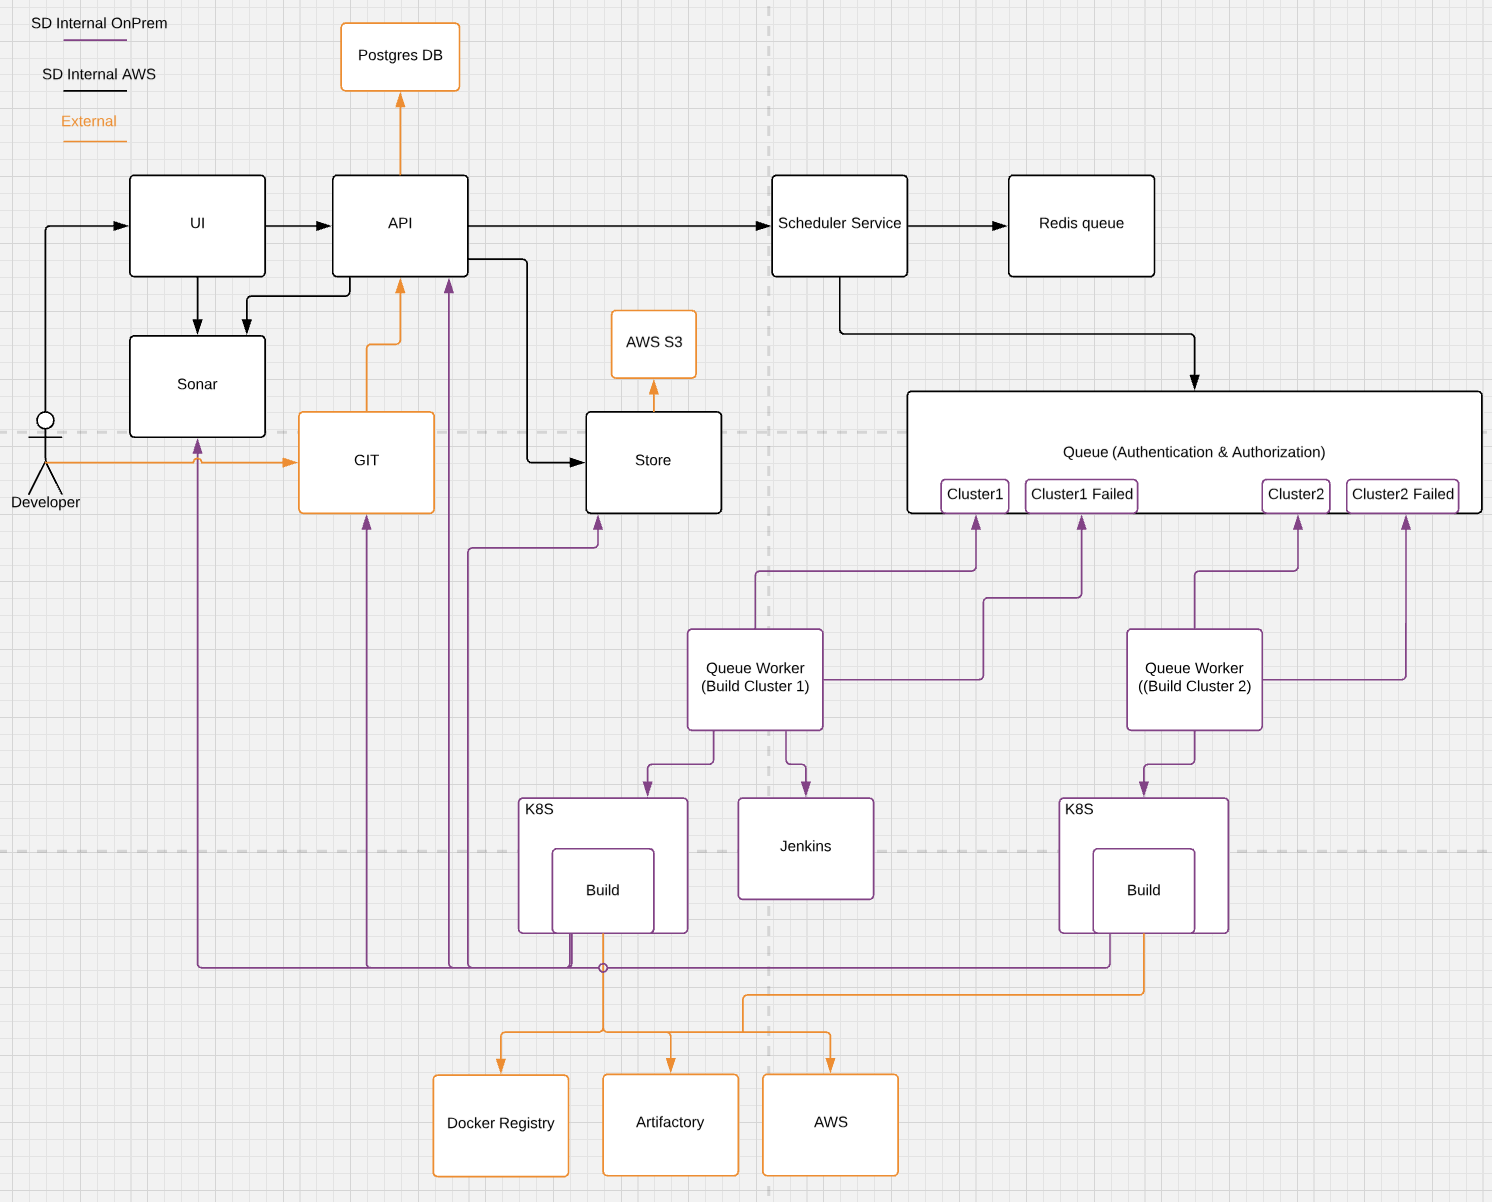
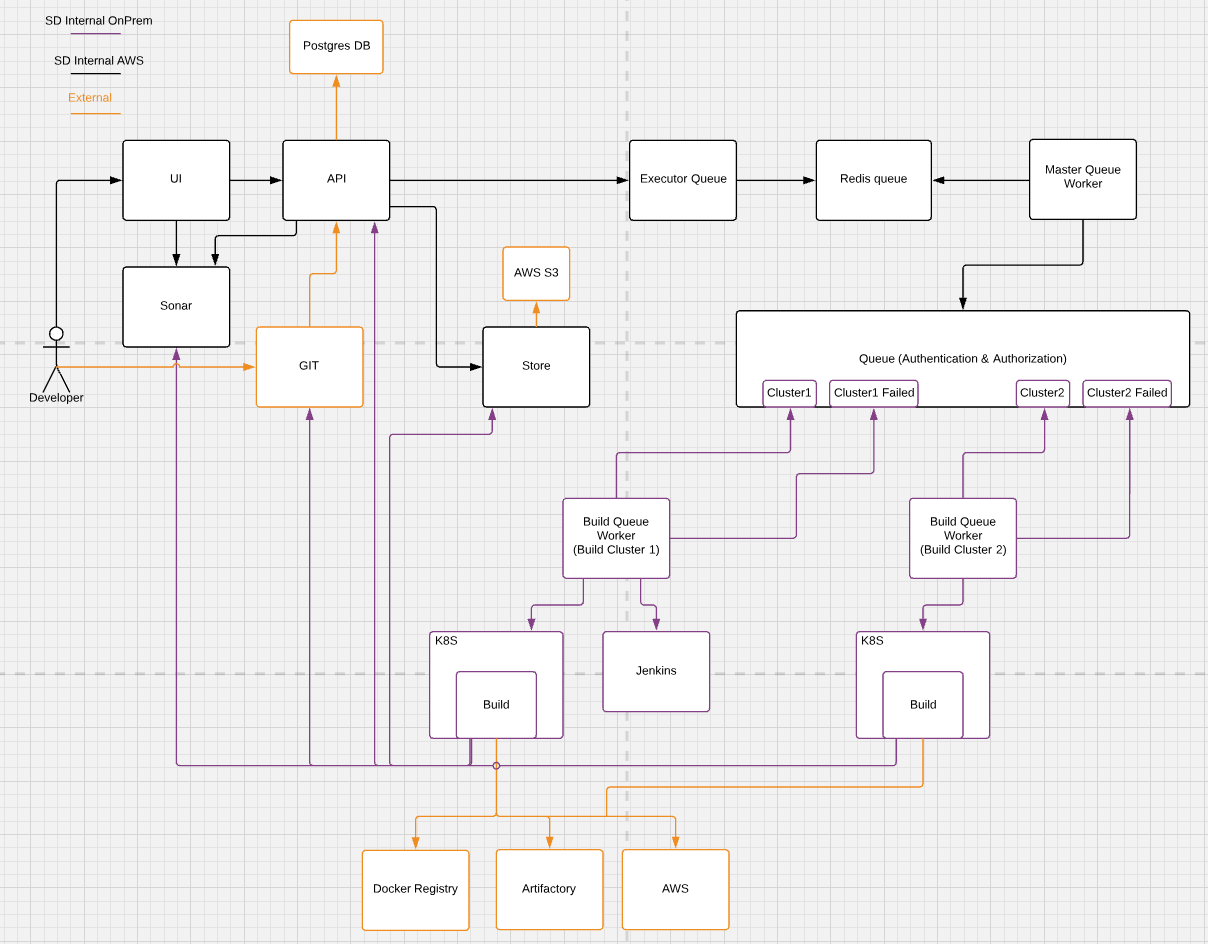
updated to include master queue worker

diff --git a/design/build-clusters.md b/design/build-clusters.md
@@ -36,17 +36,16 @@ As part of cluster onboarding process for above both options cluster admin shoul
 ![build-clusters-design-queue.png](diagrams/build-clusters-design-queue.png)
 
 
-### Responsibilities  
-	1. Scheduler service will identify build cluster and queue information for the build.
-	2. Scheduler service will push build job to queue from redis, after successfully validating blockedBy and other checks.
+### Responsibilities
+	1. No change in current API to Redis implemention  
+	2. Master queue worker will push build job to queue from redis, after successfully validating blockedBy and other checks.
 	3. Build cluster queue worker will consume/poll from its respective queue.
 	4. Queue authorization (acls) will authorize the build cluster queue worker request.
 
 
 ### Authentication & Authorization
-UI, API to Scheduler service - will follow the existing JWT authentication and authorization mechanism. 
 
-Scheduler service to queue - Scheduler service will be authorized with admin privileges to access all queues.  
+Master queue worker to queue - Master queue worker will be authorized with admin privileges to access all queues.  
 
 Build cluster queue worker to queue - build cluster will be registered and authorized to a queue or set of queues. Queue worker from build cluster will connect to queue using authorized user credentials and consume jobs from the queue on successful authorization.   
 
@@ -84,6 +83,7 @@ jobs:
 
 
 ### New table for build cluster details
+
 Table: `buildCluster`
 
 Columns:
@@ -135,18 +135,20 @@ Unique constraint: `name + isActive`
 
 	1. SD validator should validate if the annotated buildCluster in yaml is onboarded and active. 
 	
-### Screwdriver API to Scheduler service
+### API to Redis
 
-	1. Screwdriver UI / PR commit / Merge triggers new build via Screwdriver API
-	2. Screwdriver API inturn calls Scheduler service with appropriate build details to schedule a job
-	3. Authentication via JWT token (refer Authorization section)
-	4. Scheduler service queries `buildClusters` cache for active records with cluster name from build info and validate if job can be scheduled in appropriate buildCluster queue
-	5. one (or) more record exist, then assign job to the queue identified by generating a random number within given boundaries, which is the returned list size of records
-	6. no records, then query `clusters` table for active records with managedBy=screwdriver
-	7. repeat step #4
-	8. Update build info with cluster and queue details
+	1. No change in existing implementation.
 
-### Queue worker to Scheduler service  
+### Master queue worker to Queue 
+
+	1. Master queue worker queries `buildClusters` cache for active records with cluster name from build info 
+	2. Validates if build job can be scheduled in specified buildCluster queue by validating scmContext + scmOrganization access and validate if blockedBy and other checks are success. 
+	3. one (or) more record exist, then assign job to the queue identified by generating a random number within given boundaries, which is the returned list size of records
+	4. no records, then query `clusters` table for active records with managedBy=screwdriver
+	5. repeat step #3
+	6. Update build info with cluster and queue details
+
+### Build cluster Queue worker   
     
 	1. Build cluster queue worker will consume/poll jobs from queue. 
 	2(a). On successful authorization, job will be consumed. 
@@ -156,5 +158,6 @@ Unique constraint: `name + isActive`
 	3(b). On acknowledgement failures in build cluster, process will be retried for specific # of times before giving up and Offset will be committed and step #1 will be repeated.
 
 	note: in future, 3(b) will be changed to implement failure queues and process messages from failure queues
+
 
 	
